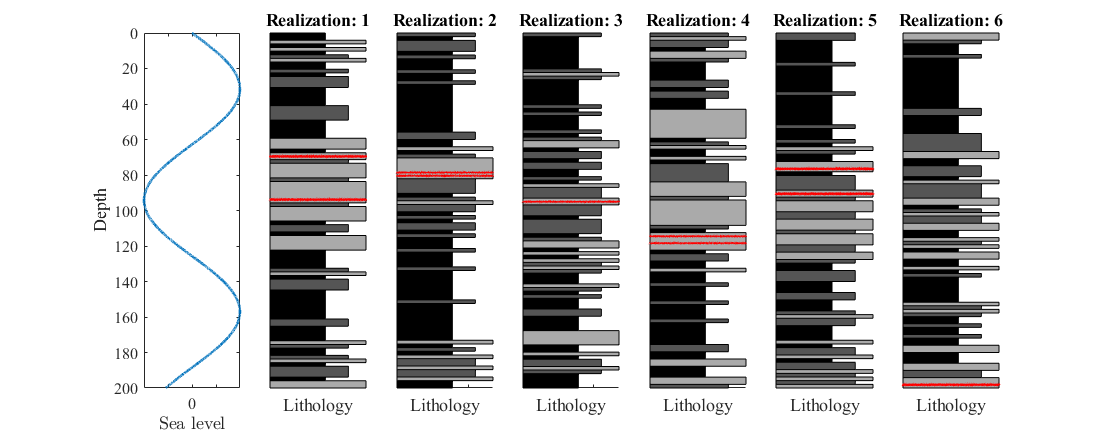
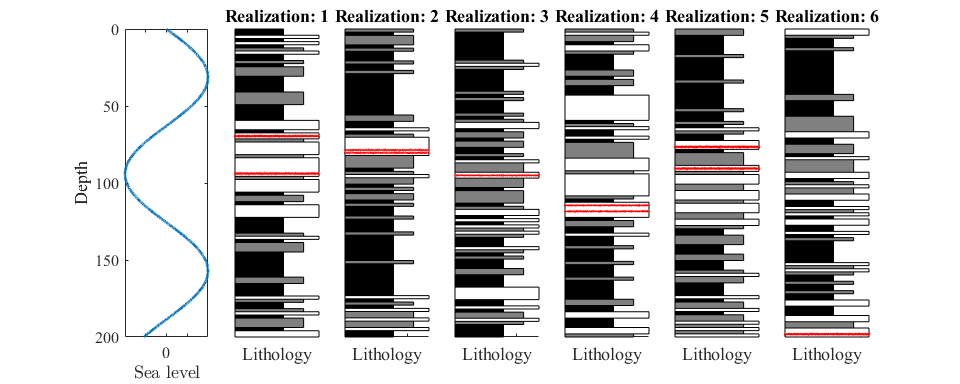
Added mode upscaling example

diff --git a/main.m b/main.m
@@ -25,7 +25,7 @@ for i = 1:nScales
 
     strata = simulateStrata(markovMatrices, age, seaLevelAge, seaLevelHeight, depositionalRates);
     subplot(1,nScales+1,i+1)
-    plotStrata(strata, true, true, size(markovMatrices{1},1));
+    plotStrata(strata, true, true, size(markovMatrices{1},1)-1);
     title(['Realization: ', num2str(i)])
     set(gca,'YTicklabel', [])
     ylabel('')
@@ -58,8 +58,7 @@ strata = simulateStrata(markovMatrices, age, seaLevelAge, seaLevelHeight, deposi
 smoothingIntervals = [1 3 5 7 9 11 13 15];
 nScales = numel(smoothingIntervals);
 
-figure('Color', 'White')
-
+figure('Color', 'White', 'Units','inches', 'Position',[3 3 10 4],'PaperPositionMode','auto');
 for i = 1:nScales
 
     smoothingInterval = smoothingIntervals(i);
@@ -76,7 +75,7 @@ end
 subplot(1,nScales+1,1)
 plot(seaLevelHeight, seaLevelAge, 'LineWidth',2)
 set(gca, 'yDir', 'reverse')
-xlabel('Normalized relative sea-level'); ylabel('Depth')
+xlabel('Sea-level'); ylabel('Depth')
 axis tight
 
 %% Upscaling example (Mean)
